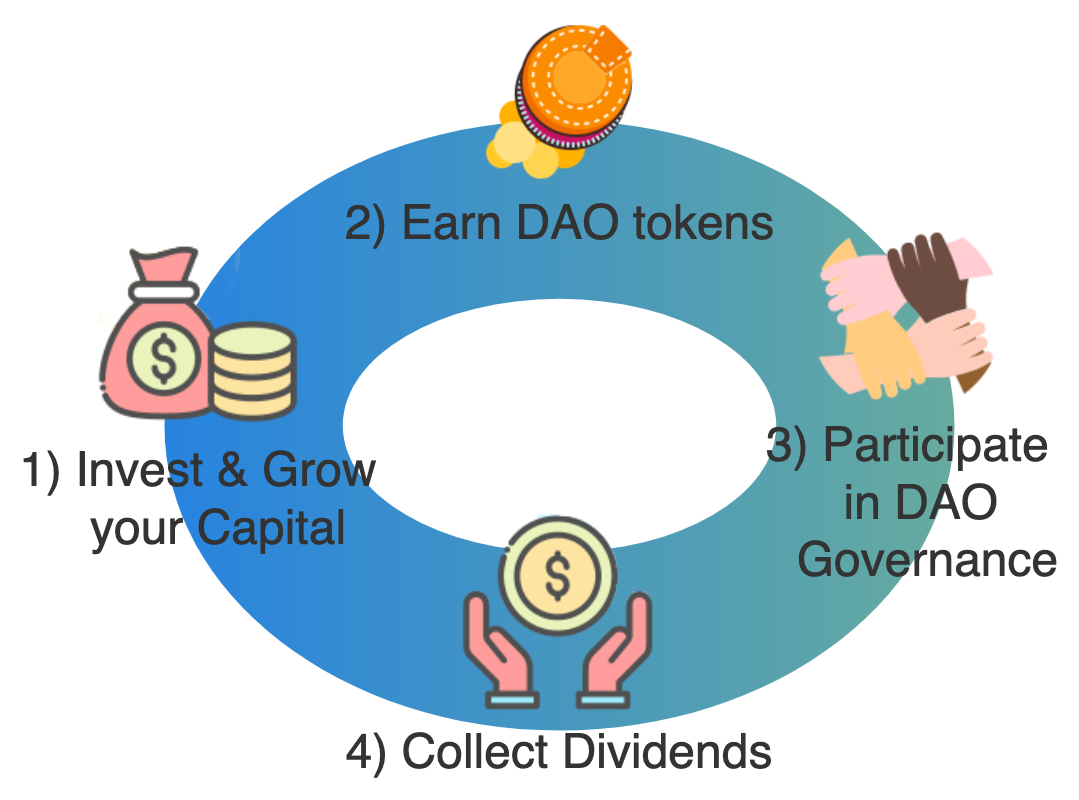
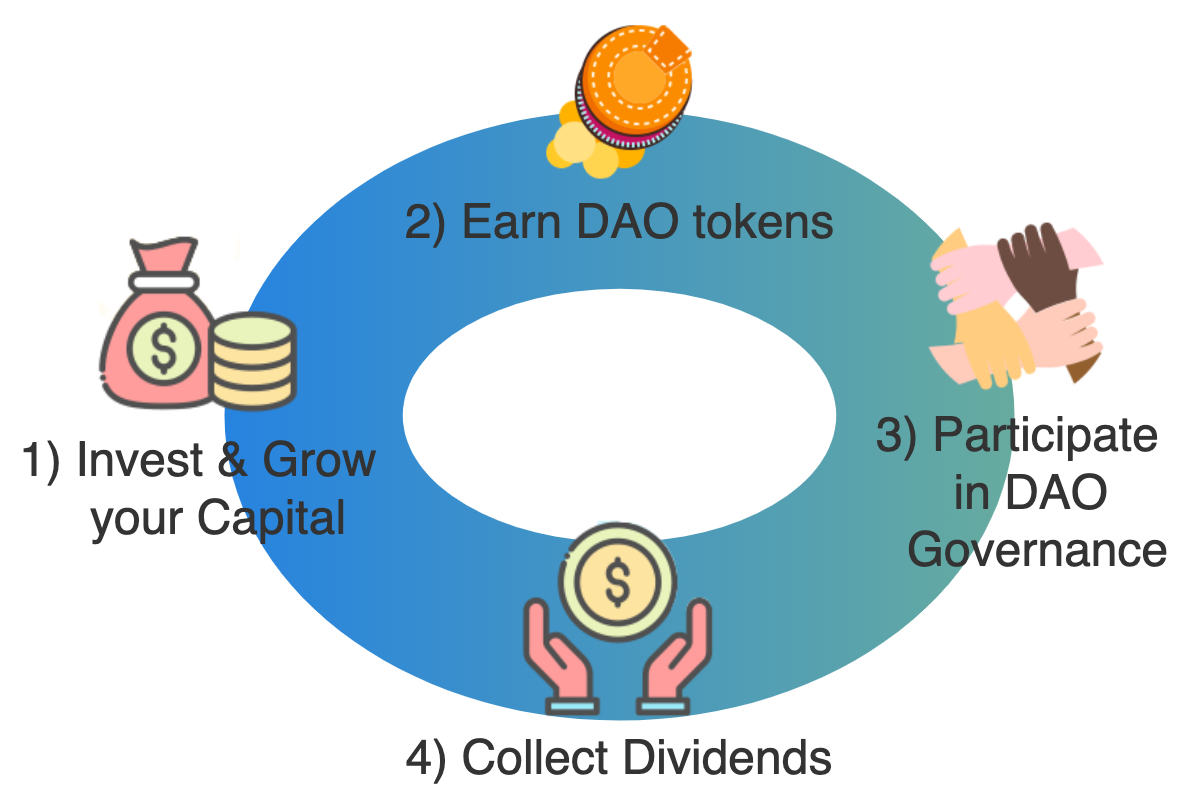
Add experience defi image for dark theme

diff --git a/src/components/Home.tsx b/src/components/Home.tsx
@@ -90,6 +90,9 @@ const useStyle = makeStyles(theme => ({
     imageDeFi: {
         content: `url(  ${theme.palette.type === 'light' ? experienceDefiLight : experienceDefiDark} )`,
         maxWidth: "480px",
+        [theme.breakpoints.down('sm')]: {
+            maxWidth: "380px",
+        },
     }
 }))
 
@@ -135,19 +138,17 @@ export const Home = ({ chainId }: HomeProps) => {
             <section className={classes.midSection}>
                
                 <Horizontal align="center"  valign="center"> 
-                    <img className={classes.imageDeFi} />
                     <Typography variant="h4" align="center" >
-                        Experience the power of  <br/>
+                        Experience the power of<br/>
                         Decentralized Finance
                     </Typography>
-
-                    </Horizontal>
+                    <img className={classes.imageDeFi} />
+                </Horizontal>
             </section>
 
 
             <section className={classes.midSection}>
-                <img className={classes.imagePhone} />
-                <Typography variant="h5">What is HashStrat?</Typography>
+                <Typography variant="h4">What is HashStrat?</Typography>
                 <ul>
                     <li>
                         <Typography variant="body1">
@@ -174,7 +175,7 @@ export const Home = ({ chainId }: HomeProps) => {
 
 
             <section className={classes.midSection}>
-                <Typography variant="h5">Who is it for?</Typography>
+                <Typography variant="h4">Who is it for?</Typography>
                 <ul>
                     <li>
                         <Typography variant="body1">

diff --git a/src/App.tsx b/src/App.tsx
@@ -34,10 +34,26 @@ const App = () => {
 				default: toggleDark ? '#303030' : '#909090',
 			 },
 		},	
+
 	});
 
-	console.log("theme: ", appTheme)
+	appTheme.typography.h4 = {
+		fontSize: '1.9rem',
+		fontWeight: 400,
+        [appTheme.breakpoints.down('sm')]: {
+			fontSize: '1.6rem',
+        },
+	};
 
+	appTheme.typography.h5 = {
+		fontSize: '1.8em',
+		fontWeight: 400,
+        [appTheme.breakpoints.down('sm')]: {
+			fontSize: '1.4rem',
+        },
+	};
+
+	console.log("theme: ", appTheme)
 
 	return (
 		<ThemeProvider theme={{ ...appTheme }}>

diff --git a/src/components/InfoBox.tsx b/src/components/InfoBox.tsx
@@ -47,7 +47,7 @@ export const InfoBox = ({ children, title, image,  } : InfoBoxProps) => {
             }
             <Box px={2} >
                 <Box py={1}>
-                    <Typography variant="h5" align="center"> {title} </Typography>
+                    <Typography variant="h4" align="center"> {title} </Typography>
                 </Box>
                 {children} 
             </Box>
